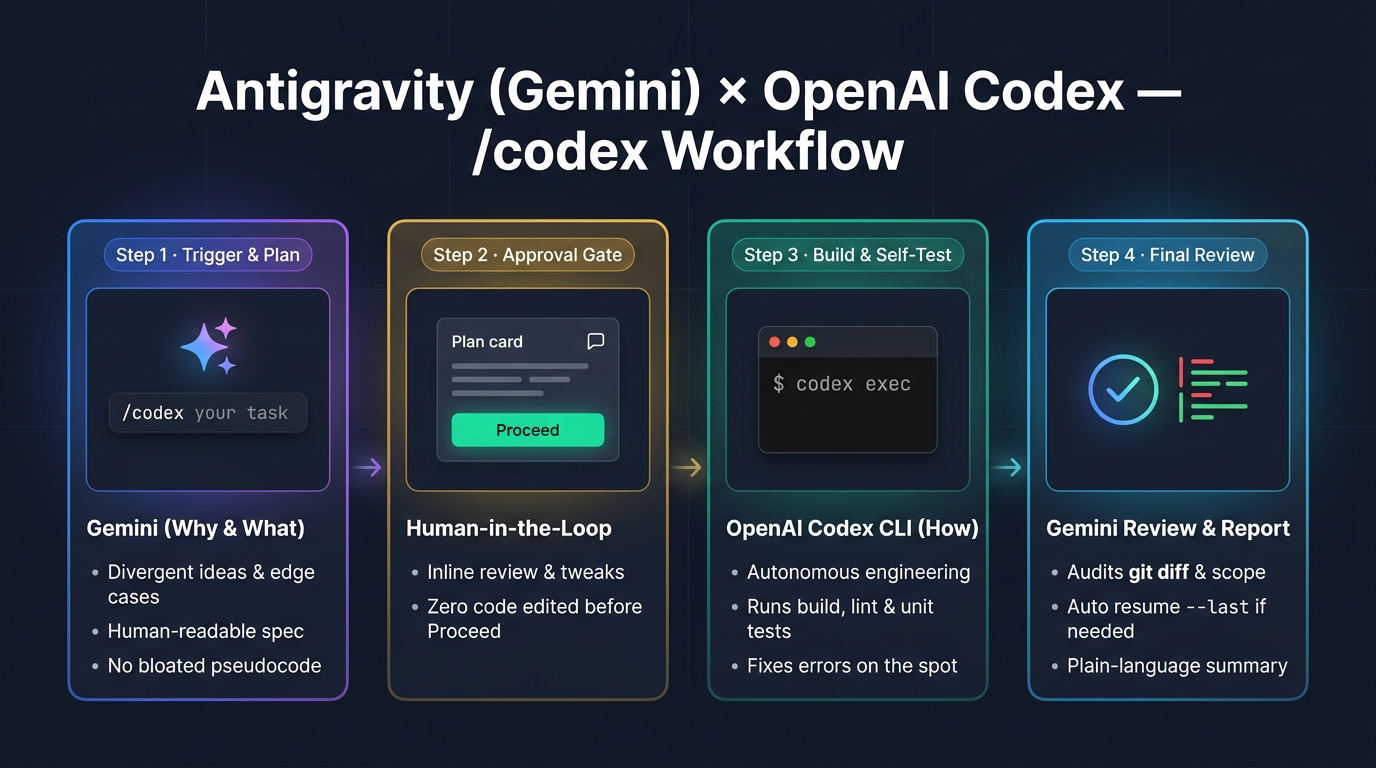
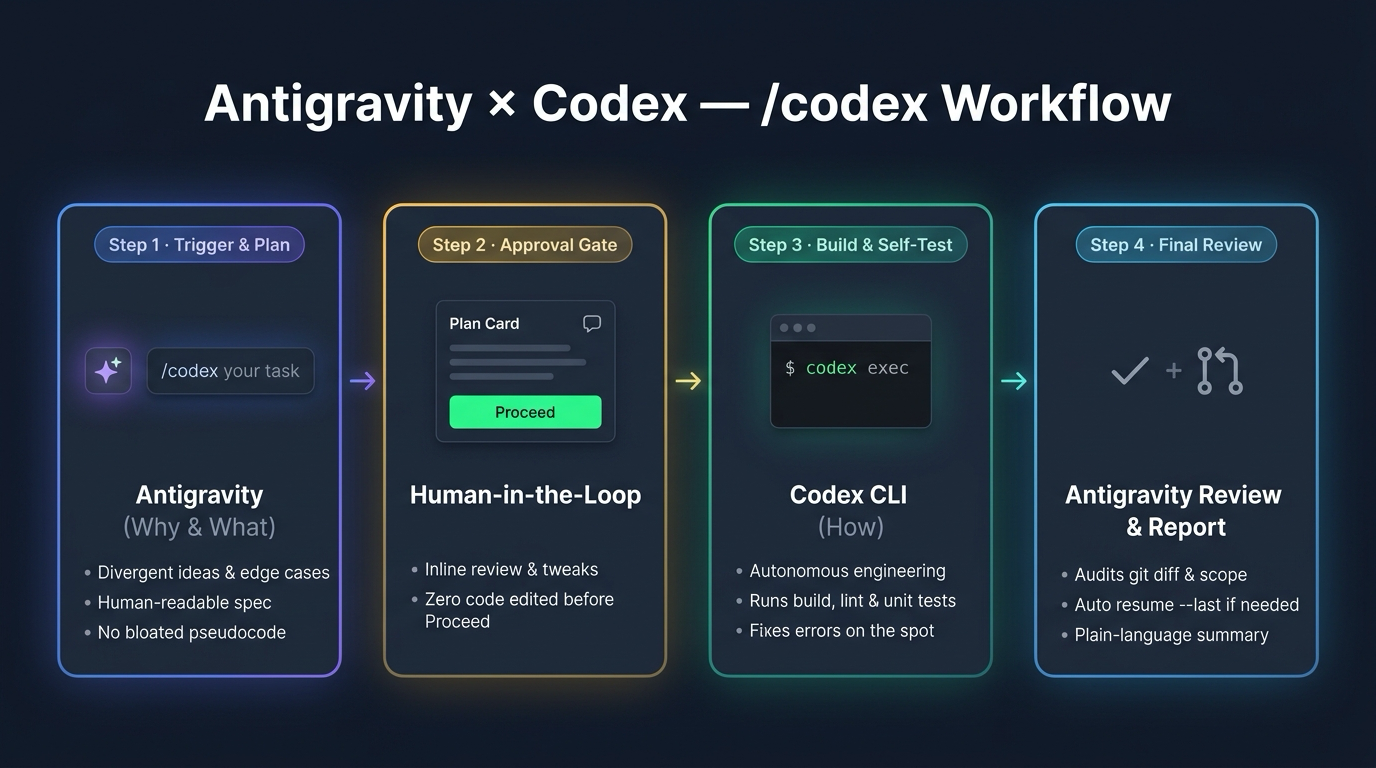
docs: polish wording and align Antigravity x Codex naming symmetry

Changed region(s): [[0.0312, 0.25, 0.9688, 0.9375], [0.125, 0.0938, 0.875, 0.2188]]

diff --git a/README.zh-CN.md b/README.zh-CN.md
@@ -5,7 +5,7 @@
 <h1 align="center">antigravity-codex</h1>
 
 <p align="center">
-  <strong>Antigravity (Gemini) × OpenAI Codex CLI — 按需召唤双脑协同工作流（<code>/codex</code> 黄金分工版）</strong>
+  <strong>Google Antigravity × OpenAI Codex — 按需触发协同工作流（<code>/codex</code>）</strong>
 </p>
 
 <p align="center">
@@ -13,20 +13,20 @@
 </p>
 
 <p align="center">
-  <img src="./assets/workflow-preview.png" alt="Antigravity x OpenAI Codex 工作流示意图" width="100%" />
+  <img src="./assets/workflow-preview.png" alt="Antigravity x Codex 工作流示意图" width="100%" />
 </p>
 
 ---
 
 ## 为什么选择 `antigravity-codex`？
 
-一套为 **Google Antigravity** 打造的轻量、零依赖原生插件，将 **Gemini** 与 **OpenAI Codex CLI** 的各自长板合二为一——并且**只在你输入 `/codex` 时按需唤醒**：
+一套为 **Google Antigravity** 打造的轻量、零依赖原生插件，将 **Antigravity** 与 **Codex CLI** 的各自长板结合起来——并且**只在你输入 `/codex` 时按需触发**：
 
-- **平时零侵入**：刻意不写全局 `rules/AGENTS.md`，仅通过 `skills/codex` 按需加载。日常问答和小改动依然由 Gemini 原生完成，不污染上下文。
+- **平时零侵入**：刻意不写全局 `rules/AGENTS.md`，仅通过 `skills/codex` 按需加载。日常问答和小改动依然由 Antigravity 原生完成，不污染上下文。
 - **深度原生 UI 门禁**：调用 Antigravity 原生 `implementation_plan.md` 方案卡片（`RequestFeedback: true`），渲染可点击的 **Proceed** 按钮并支持划词批注微调，未拍板前严禁修改一行代码。
-- **黄金分工哲学（`Why & What` vs. `How`）**：
-  - **Gemini（产品军师 + 终审质检）**：负责发散思维探路、输出抓大放小的“人话”任务书、划定边缘防坑清单与红线边界、独立复核 `git diff` 并用人话汇报。
-  - **OpenAI Codex CLI（王牌总工程师）**：拿到清晰目标后自主决定最地道的工程实现，并在工作区现场跑通构建、Lint 与单测闭环，一次交出能跑通的代码。
+- **清晰的职责分工（`Why & What` vs. `How`）**：
+  - **Antigravity（需求分析 + 终审把关）**：负责发散思维探路、输出抓大放小的“人话”任务书、划定边缘防坑清单与红线边界、独立复核 `git diff` 并用人话汇报。
+  - **Codex CLI（工程实现 + 现场自测）**：拿到清晰目标后自主决定最地道的工程实现，并在工作区现场跑通构建、Lint 与单测闭环，一次交出能跑通的代码。
 - **零第三方桥接 · 100% 官方正门**：不装 MCP Server、不用逆向反代、不依赖 tmux，直接通过官方 `codex exec` / `codex exec resume --last` 命令行协作，合规稳定。
 - **大任务更省 Antigravity 额度**：把最耗轮次的多文件编码与编译试错卸载到单次脚本调用中，由你的 Codex 额度分担重体力施工。
 - **全平台支持**：原生提供 **macOS / Linux (`run-codex.sh`)** 与 **Windows (`run-codex.ps1`)** 双端支持。
@@ -38,27 +38,27 @@
 ```mermaid
 sequenceDiagram
     actor User as 用户
-    participant Gemini as Antigravity (Gemini · 管 Why & What)
-    participant Codex as OpenAI Codex CLI (管 How & 现场自测)
+    participant Antigravity as Antigravity (管 Why & What)
+    participant Codex as Codex CLI (管 How & 现场自测)
 
-    Note over User,Gemini: 平时普通消息：Gemini 自己直接执行（无需任何开关）
-    User->>Gemini: 输入 "/codex + 开发/重构/修Bug需求"
+    Note over User,Antigravity: 平时普通消息：Antigravity 自己直接执行（无需任何开关）
+    User->>Antigravity: 输入 "/codex + 开发/重构/修Bug需求"
     opt 需求开放或有多种解法时
-        Gemini-->>User: 用“人话”发散提供 2~3 个思路选项与防坑建议
-        User->>Gemini: 敲定大方向
+        Antigravity-->>User: 用“人话”发散提供 2~3 个思路选项与防坑建议
+        User->>Antigravity: 敲定大方向
     end
-    Gemini->>Gemini: 只读调研代码库，生成抓大放小的 implementation_plan.md
-    Gemini-->>User: 展示带 [Proceed] 按钮的“人话”方案卡片并暂停等待
-    User->>Gemini: 划词批注微调或点击 [Proceed] 拍板确认
-    Gemini->>Codex: 调用 run-codex.sh / run-codex.ps1 execute 放权移交
+    Antigravity->>Antigravity: 只读调研代码库，生成抓大放小的 implementation_plan.md
+    Antigravity-->>User: 展示带 [Proceed] 按钮的“人话”方案卡片并暂停等待
+    User->>Antigravity: 划词批注微调或点击 [Proceed] 拍板确认
+    Antigravity->>Codex: 调用 run-codex.sh / run-codex.ps1 execute 放权移交
     Codex->>Codex: 自主工程设计 + 修改代码 + 现场跑通编译/Lint/单测闭环
-    Codex-->>Gemini: 一次性交付验证通过的代码与技术摘要
-    Gemini->>Gemini: 独立复核 git diff 对齐产品本意与边界红线
+    Codex-->>Antigravity: 一次性交付验证通过的代码与技术摘要
+    Antigravity->>Antigravity: 独立复核 git diff 对齐产品本意与边界红线
     alt 存在需求遗漏或边界偏差
-        Gemini->>Codex: 调用 run-codex resume --last 精准打回微调（最多 3 轮）
-        Codex-->>Gemini: 极速返修完成
+        Antigravity->>Codex: 调用 run-codex resume --last 精准打回微调（最多 3 轮）
+        Codex-->>Antigravity: 极速返修完成
     end
-    Gemini-->>User: 用“人话”汇总实现效果、可点击文件链接与验收情况
+    Antigravity-->>User: 用“人话”汇总实现效果、可点击文件链接与验收情况
 ```
 
 ---
@@ -136,7 +136,7 @@ antigravity-codex/
     ├── README.md
     ├── assets/logo.svg
     └── skills/codex/
-        ├── SKILL.md                       # /codex 黄金分工技能定义
+        ├── SKILL.md                       # /codex 协同技能定义
         └── scripts/
             ├── run-codex.sh               # macOS / Linux 执行器（兼容 Bash 3.2）
             └── run-codex.ps1              # Windows PowerShell 执行器

diff --git a/README.md b/README.md
@@ -5,7 +5,7 @@
 <h1 align="center">antigravity-codex</h1>
 
 <p align="center">
-  <strong>Antigravity (Gemini) × OpenAI Codex CLI — On-Demand Dual-Brain Workflow (<code>/codex</code>)</strong>
+  <strong>Google Antigravity × OpenAI Codex — On-Demand Dual-Agent Workflow (<code>/codex</code>)</strong>
 </p>
 
 <p align="center">
@@ -13,20 +13,20 @@
 </p>
 
 <p align="center">
-  <img src="./assets/workflow-preview.png" alt="Antigravity x OpenAI Codex Workflow" width="100%" />
+  <img src="./assets/workflow-preview.png" alt="Antigravity x Codex Workflow" width="100%" />
 </p>
 
 ---
 
 ## Why `antigravity-codex`?
 
-A lightweight, zero-dependency native plugin for **Google Antigravity** that pairs **Gemini** and **OpenAI Codex CLI** using their complementary strengths — **only when you type `/codex`**:
+A lightweight, zero-dependency native plugin for **Google Antigravity** that pairs **Antigravity** and **Codex CLI** using their complementary strengths — **only when you type `/codex`**:
 
-- **Zero Intrusion by Default**: Ships with `skills/codex` only (no global `rules/AGENTS.md`). Everyday chats and small edits stay 100% native Gemini with zero context bloat.
+- **Zero Intrusion by Default**: Ships with `skills/codex` only (no global `rules/AGENTS.md`). Everyday chats and small edits stay 100% native Antigravity with zero context bloat.
 - **Native Antigravity Approval UI**: Uses Antigravity's native `implementation_plan.md` artifact (`RequestFeedback: true`) to render an interactive **Proceed** button and inline commenting before a single line of code is touched.
-- **Golden Division of Labor (`Why & What` vs. `How`)**:
-  - **Gemini (Product Strategist & Final Reviewer)** owns divergent brainstorming, human-readable specs, edge-case guardrails, scope boundaries, and final diff review.
-  - **OpenAI Codex CLI (Principal Engineer)** owns idiomatic implementation and runs build/lint/unit-test loops on the spot before handing back working code.
+- **Clear Separation of Responsibilities (`Why & What` vs. `How`)**:
+  - **Antigravity (Architecture & Final Review)** owns divergent brainstorming, human-readable specs, edge-case guardrails, scope boundaries, and final diff review.
+  - **Codex CLI (Engineering & Self-Test)** owns idiomatic implementation and runs build/lint/unit-test loops on the spot before handing back working code.
 - **Zero External Bridges & 100% Official Channels**: No MCP servers, no reverse proxies, no tmux wrappers — just a native Antigravity plugin invoking the official `codex exec` / `codex exec resume --last` CLI.
 - **Quota-Friendly for Heavy Tasks**: Offloads multi-file coding and compile/test fix loops into a single shell turn backed by your OpenAI Codex subscription/API.
 - **Cross-Platform**: Works out of the box on **macOS, Linux, and Windows (PowerShell)**.
@@ -38,27 +38,27 @@ A lightweight, zero-dependency native plugin for **Google Antigravity** that pai
 ```mermaid
 sequenceDiagram
     actor User as User
-    participant Gemini as Antigravity (Gemini · Why & What)
-    participant Codex as OpenAI Codex CLI (How & Self-Test)
+    participant Antigravity as Antigravity (Why & What)
+    participant Codex as Codex CLI (How & Self-Test)
 
-    Note over User,Gemini: Normal messages: Gemini handles everything directly
-    User->>Gemini: /codex <your feature, refactor, or bugfix>
+    Note over User,Antigravity: Normal messages: Antigravity handles everything directly
+    User->>Antigravity: /codex <your feature, refactor, or bugfix>
     opt Open-ended request
-        Gemini-->>User: 2-3 high-level options & trade-offs in plain language
-        User->>Gemini: Pick direction
+        Antigravity-->>User: 2-3 high-level options & trade-offs in plain language
+        User->>Antigravity: Pick direction
     end
-    Gemini->>Gemini: Read-only codebase exploration -> implementation_plan.md
-    Gemini-->>User: Interactive Plan Card with [Proceed] button (pauses)
-    User->>Gemini: Inline comments or click [Proceed]
-    Gemini->>Codex: run-codex.sh / run-codex.ps1 execute <workspace> <plan>
+    Antigravity->>Antigravity: Read-only codebase exploration -> implementation_plan.md
+    Antigravity-->>User: Interactive Plan Card with [Proceed] button (pauses)
+    User->>Antigravity: Inline comments or click [Proceed]
+    Antigravity->>Codex: run-codex.sh / run-codex.ps1 execute <workspace> <plan>
     Codex->>Codex: Autonomous coding + build/lint/test self-verification
-    Codex-->>Gemini: Verified code + concise technical summary
-    Gemini->>Gemini: Independent git diff & scope audit
+    Codex-->>Antigravity: Verified code + concise technical summary
+    Antigravity->>Antigravity: Independent git diff & scope audit
     alt Missing requirements or boundary issues
-        Gemini->>Codex: run-codex resume --last <fix_instructions> (up to 3 rounds)
-        Codex-->>Gemini: Targeted fix completed
+        Antigravity->>Codex: run-codex resume --last <fix_instructions> (up to 3 rounds)
+        Codex-->>Antigravity: Targeted fix completed
     end
-    Gemini-->>User: Plain-language summary, clickable file links & test status
+    Antigravity-->>User: Plain-language summary, clickable file links & test status
 ```
 
 ---
@@ -136,7 +136,7 @@ antigravity-codex/
     ├── README.md
     ├── assets/logo.svg
     └── skills/codex/
-        ├── SKILL.md                       # /codex Golden Division skill
+        ├── SKILL.md                       # /codex workflow skill definition
         └── scripts/
             ├── run-codex.sh               # macOS / Linux runner (Bash 3.2 safe)
             └── run-codex.ps1              # Windows PowerShell runner

diff --git a/docs/INSTALL_WITH_ANTIGRAVITY.md b/docs/INSTALL_WITH_ANTIGRAVITY.md
@@ -1,11 +1,11 @@
-# Antigravity (Gemini) × OpenAI Codex 双脑协同工作流：一键部署指南（`黄金分工 · /codex 按需召唤版`）
+# Google Antigravity × OpenAI Codex 协同工作流：一键部署指南（`/codex` 按需触发）
 
 > [!TIP]
-> **给使用者的最简用法（Agent-Native 一键安装）**：直接将本文档拖入（或全选复制粘贴到）你的 **Antigravity** 对话框中，发送一句：**「请严格按照这份文档，帮我在本机自动部署并验证这套 `/codex` 双脑协同插件」**，Gemini 就会自动完成环境检查、安装依赖、写入全局插件与校验全流程。
+> **给使用者的最简用法（Agent-Native 一键安装）**：直接将本文档拖入（或全选复制粘贴到）你的 **Antigravity** 对话框中，发送一句：**「请严格按照这份文档，帮我在本机自动部署并验证这套 `/codex` 协同插件」**，Antigravity 就会自动完成环境检查、安装依赖、写入全局插件与校验全流程。
 
 ---
 
-## 一、 设计理念：为什么叫「黄金分工」？
+## 一、 设计理念与职责分工
 
 本方案基于 Antigravity 原生插件与斜杠技能机制（**`/codex` 按需触发 + 终端异步脚本**），无需去菜单翻找开关，也不依赖任何第三方桥接库，核心是**让两个模型各自只做最擅长的事**：
 
@@ -21,7 +21,7 @@
 
 ---
 
-## 二、 给 Antigravity (Gemini) 的自动部署执行指令
+## 二、 给 Antigravity 的自动部署执行指令
 
 > [!IMPORTANT]
 > **以下章节为写给执行部署的 Antigravity Agent 的标准作业程序（SOP）**。当你收到用户发来的本文档时，请直接由你本人按以下 5 个步骤在本机完成安装与配置（macOS / Linux 使用 `run-codex.sh`；若检测到 Windows 环境，请将路径与脚本等价适配为仓库中的 PowerShell 版本 `run-codex.ps1`）。
@@ -54,8 +54,8 @@
 ```json
 {
   "name": "codex-collaborator",
-  "displayName": "Gemini × Codex 双脑协同 (/codex)",
-  "description": "黄金分工双脑协同工作流：平时默认由 Gemini 独立工作；输入 /codex 时，由 Gemini 负责发散探路、用人话对齐需求边界与终审把关，由 OpenAI Codex CLI 负责自主工程实现与现场自测闭环。",
+  "displayName": "Antigravity × Codex 协同 (/codex)",
+  "description": "按需触发的 Antigravity × Codex 协同工作流：平时默认由 Antigravity 独立工作；输入 /codex 时，由 Antigravity 负责发散探路、用人话对齐需求边界与终审把关，由 Codex CLI 负责自主工程实现与现场自测闭环。",
   "version": "1.0.0",
   "logo": "assets/logo.svg",
   "suggestedPrompts": [
@@ -90,10 +90,10 @@
 #### 3. `<USER_HOME>/.gemini/config/plugins/codex-collaborator/README.md`
 
 ```markdown
-# Gemini × Codex 双脑协同插件 (`黄金分工 · /codex 按需召唤版`)
+# Antigravity × Codex 协同插件 (`/codex` 按需触发)
 
-- **平时默认状态**：无需任何开关，默认由 **Antigravity (Gemini)** 自己直接完成问答与编码。
-- **召唤双脑协同**：输入 **`/codex 你的需求`** 发送，启动 **「产品军师 Gemini（管 What & Why + 说人话）× 王牌总工 Codex（管 How + 极速工程自测）」** 的黄金配合。
+- **平时默认状态**：无需任何开关，默认由 **Antigravity** 自己直接完成问答与编码。
+- **按需协同**：输入 **`/codex 你的需求`** 发送，启动 **Antigravity（管 Why & What + 终审把关）× Codex CLI（管 How + 现场自测）** 的完整闭环。
 ```
 
 ---
@@ -109,10 +109,10 @@
 ---
 name: codex
 description: >-
-  仅当用户输入 /codex 斜杠命令，或在对话中明确要求“交给 Codex / 开启双脑协同”时激活（平时普通编码请求请勿自动激活，由 Gemini 直接完成）。激活后采用黄金分工模式：由 Gemini 负责发散思维探路、用人话对齐目标与边界并做独立终审；由 OpenAI Codex CLI 负责自主工程实现与现场自测闭环。
+  仅当用户输入 /codex 斜杠命令，或在对话中明确要求“交给 Codex / 开启协同”时激活（平时普通编码请求请勿自动激活，由 Antigravity 直接完成）。激活后由 Antigravity 负责发散思维探路、用人话对齐目标与边界并做独立终审；由 Codex CLI 负责自主工程实现与现场自测闭环。
 ---
 
-# Gemini × Codex 双脑协同技能 (`黄金分工版`)
+# Antigravity × Codex 协同技能 (`/codex`)
 
 > **触发边界**：仅在用户通过 `/codex` 显式召唤、或明确口头指定交给 Codex 时启用。一旦启用，请严格遵循 **「Gemini 管 Why & What（产品发散、人话沟通、架构边界、终审把关），Codex 管 How（地道工程设计、极速编码、现场自测闭环）」** 的分工原则，切勿在未获用户允许时由 Gemini 自己改业务源码。
 

diff --git a/plugin/skills/codex/SKILL.md b/plugin/skills/codex/SKILL.md
@@ -1,10 +1,10 @@
 ---
 name: codex
 description: >-
-  仅当用户输入 /codex 斜杠命令，或在对话中明确要求“交给 Codex / 开启双脑协同”时激活（平时普通编码请求请勿自动激活，由 Gemini 直接完成）。激活后采用黄金分工模式：由 Gemini 负责发散思维探路、用人话对齐目标与边界并做独立终审；由 OpenAI Codex CLI 负责自主工程实现与现场自测闭环。
+  仅当用户输入 /codex 斜杠命令，或在对话中明确要求“交给 Codex / 开启协同”时激活（平时普通编码请求请勿自动激活，由 Antigravity 直接完成）。激活后由 Antigravity 负责发散思维探路、用人话对齐目标与边界并做独立终审；由 Codex CLI 负责自主工程实现与现场自测闭环。
 ---
 
-# Gemini × Codex 双脑协同技能 (`黄金分工版`)
+# Antigravity × Codex 协同技能 (`/codex`)
 
 > **触发边界**：仅在用户通过 `/codex` 显式召唤、或明确口头指定交给 Codex 时启用。一旦启用，请严格遵循 **「Gemini 管 Why & What（产品发散、人话沟通、架构边界、终审把关），Codex 管 How（地道工程设计、极速编码、现场自测闭环）」** 的分工原则，切勿在未获用户允许时由 Gemini 自己改业务源码。
 

diff --git a/plugin/README.md b/plugin/README.md
@@ -1,4 +1,4 @@
-# Gemini × Codex 双脑协同插件 (`黄金分工 · /codex 按需召唤版`)
+# Antigravity × Codex 协同插件 (`/codex` 按需触发)
 
-- **平时默认状态**：无需任何开关，默认由 **Antigravity (Gemini)** 自己直接完成问答与编码。
-- **召唤双脑协同**：输入 **`/codex 你的需求`** 发送，启动 **「产品军师 Gemini（管 What & Why + 说人话）× 王牌总工 Codex（管 How + 极速工程自测）」** 的黄金配合。
+- **平时默认状态**：无需任何开关，默认由 **Antigravity** 自己直接完成问答与编码。
+- **按需协同**：输入 **`/codex 你的需求`** 发送，启动 **Antigravity（管 Why & What + 终审把关）× Codex CLI（管 How + 现场自测）** 的完整闭环。
